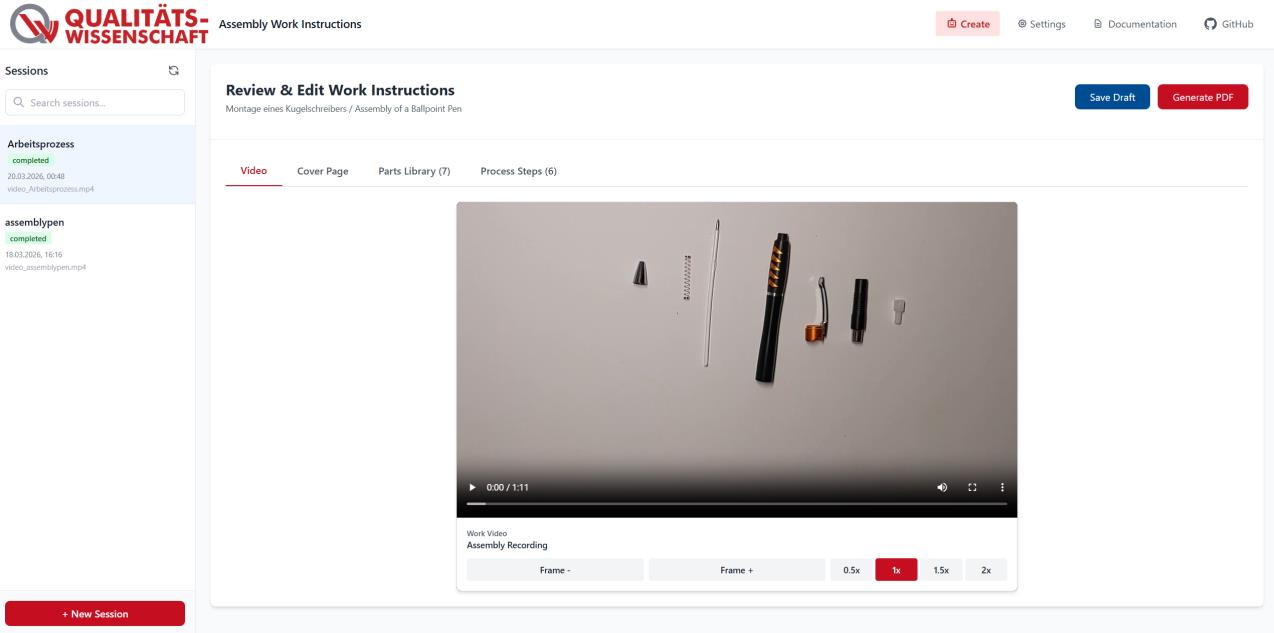
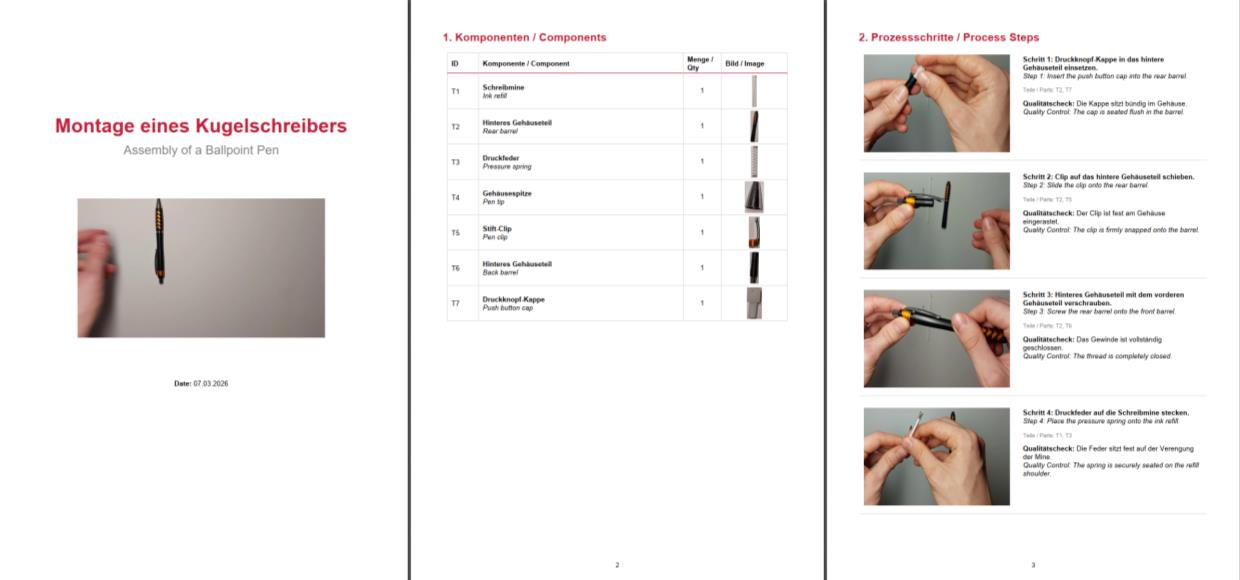
Fix bad crops on three project card images
Visually inspected all six cards after adding README visuals - three
cropped badly:
- AI Work Instruction Generator: the screenshot's useful content sat
  in a small corner with the rest empty gray space. Swapped to the
  README's PDF-output image instead, which is a wide triptych that
  actually fills a landscape card.
- Automotive Analytics and Claudroom: both source images are tall
  (dashboard/portrait mobile-style), so default center-crop cut off
  the recognizable header (title, big numbers, app name) and instead
  showed a random middle section. Added an `imagePosition: 'top'`
  field respected by Projects.jsx to anchor the crop at the top
  instead of center.

diff --git a/src/constants/index.js b/src/constants/index.js
@@ -189,6 +189,7 @@ export const myProjects = [
   {
     title: 'Automotive Manufacturing Data Analytics',
     image: '/assets/projects/automotive-analytics.png',
+    imagePosition: 'top',
     desc: 'Cleaned and merged multi-source production data; applied ML to predict delays and find bottlenecks. Built interactive dashboards with pandas, Plotly, and Dash for analysis and reporting.',
     subdesc: 'Demonstrated expertise in data engineering and visualization for industrial applications.',
     href: 'https://github.com/yassine12-12/Automotive-Production-Lead-Time-Analysis',
@@ -352,6 +353,7 @@ export const myProjects = [
   {
     title: 'Claudroom — macOS Menu Bar App',
     image: '/assets/projects/claudroom.png',
+    imagePosition: 'top',
     desc: 'Native macOS menu-bar app (Swift/SwiftUI) that tracks Claude Max subscription capacity in real time — remaining quota, per-model usage breakdown, and plan-fit advice.',
     subdesc: 'Personal product built end-to-end in Swift, from data collection to a packaged, tested macOS app.',
     href: 'https://github.com/yassine12-12/claudroom',

diff --git a/src/sections/Projects.jsx b/src/sections/Projects.jsx
@@ -227,7 +227,9 @@ const Projects = () => {
                     src={project.image}
                     alt={`${project.title} preview`}
                     loading="lazy"
-                    className="w-full h-full object-cover transition-transform duration-500 group-hover:scale-105"
+                    className={`w-full h-full object-cover transition-transform duration-500 group-hover:scale-105 ${
+                      project.imagePosition === 'top' ? 'object-top' : 'object-center'
+                    }`}
                   />
                   <div className="absolute inset-0 bg-gradient-to-t from-black/70 via-black/0 to-black/10" />
                   <div className="absolute top-4 left-4">
